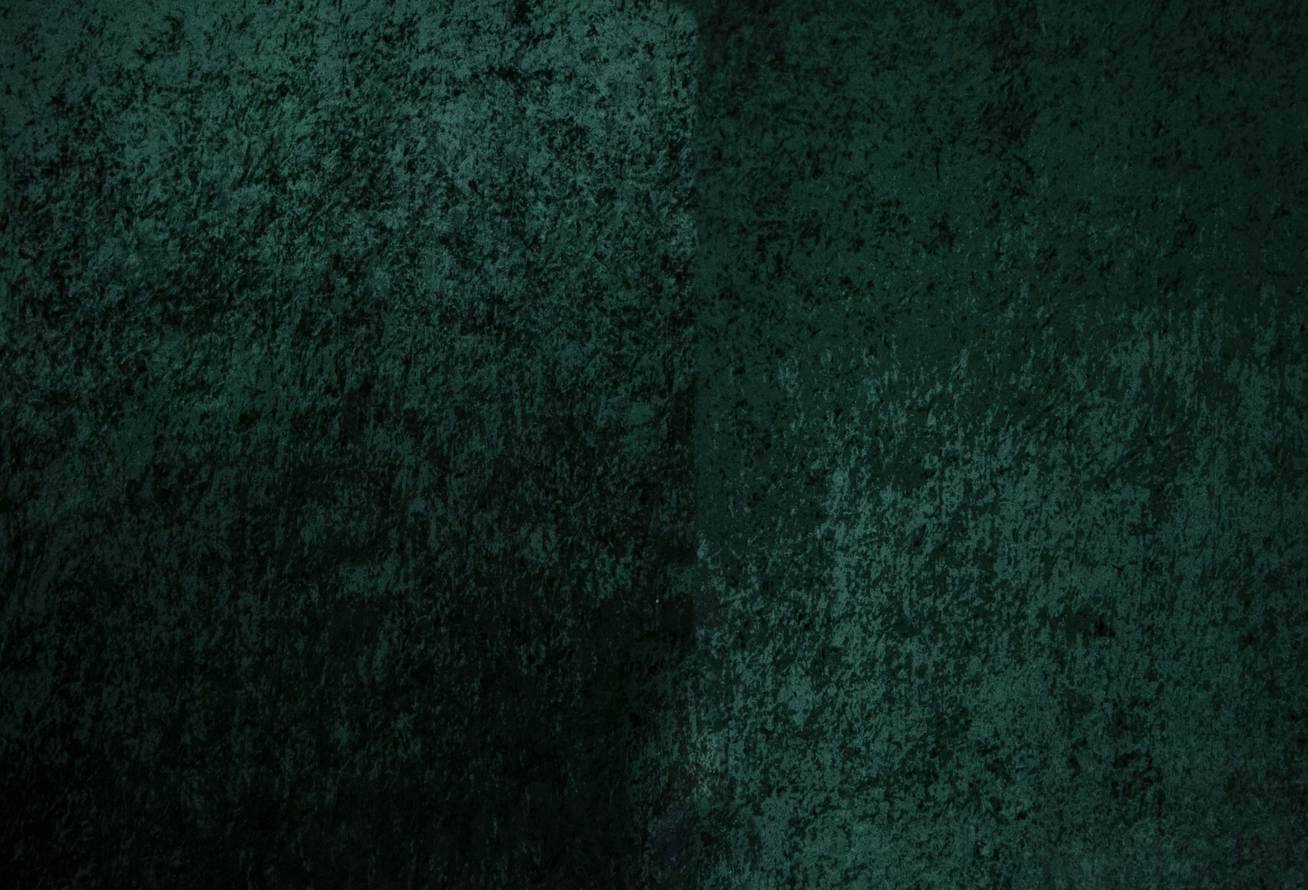
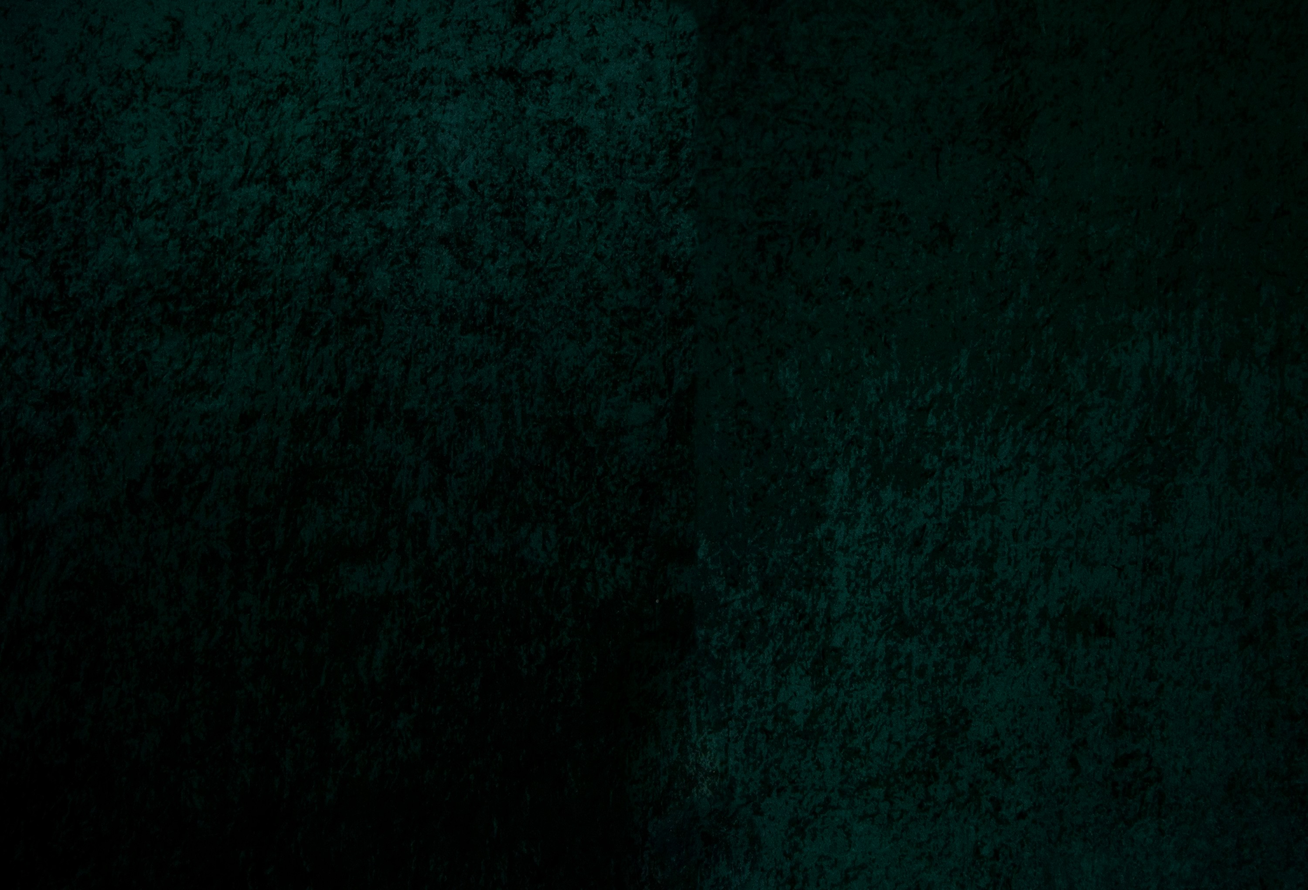
better pics for slider

diff --git a/public/index.html b/public/index.html
@@ -31,13 +31,25 @@
                     <img src="assets/slider3.jpg" alt="Slide 3">
                 </div>
                 <div class="slide">
-                    <img src="assets/slider1.jpg" alt="Slide 1">
+                    <img src="assets/slider4.jpg" alt="Slide 1">
                 </div>
                 <div class="slide">
-                    <img src="assets/slider2.jpg" alt="Slide 2">
+                    <img src="assets/slider5.jpg" alt="Slide 2">
                 </div>
                 <div class="slide">
-                    <img src="assets/slider3.jpg" alt="Slide 3">
+                    <img src="assets/slider1.jpg" alt="Slide 3">
+                </div>
+                <div class="slide">
+                    <img src="assets/slider2.jpg" alt="Slide 1">
+                </div>
+                <div class="slide">
+                    <img src="assets/slider3.jpg" alt="Slide 2">
+                </div>
+                <div class="slide">
+                    <img src="assets/slider4.jpg" alt="Slide 3">
+                </div>
+                <div class="slide">
+                    <img src="assets/slider5.jpg" alt="Slide 1">
                 </div>
             </div>
         </div>

diff --git a/public/css/stylesheet.css b/public/css/stylesheet.css
@@ -133,7 +133,7 @@ nav a {
 .slide-track {
     display: flex;
     width: max-content;
-    animation: scroll 10s linear infinite;
+    animation: scroll 25s linear infinite;
 }
 
 @keyframes scroll {
@@ -158,7 +158,7 @@ nav a {
     left: 0;
     width: 100%;
     height: 100%;
-    background: rgba(0, 0, 0, 0.3);
+    background: rgba(0, 0, 0, 0.4);
     z-index: 1;
 }
 
